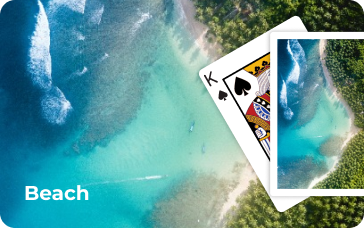
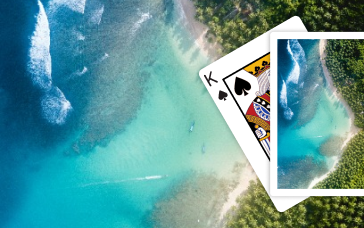
image cheng

diff --git a/customization(background).html b/customization(background).html
@@ -41,32 +41,41 @@
                 <button><a href="#">Card Back</a></button>
             </div>
             <div class="card-img">
-                <div>
-                    <img src="img/classic-cloth.png" alt="">
+                <div class="card-box">
+                    <img src="img/Classic-Cloth.png" alt="">
+                    <p class="card-name">Classic Cloth</p>
                 </div>
-                <div>
+                <div class="card-box">
                     <img src="img/medieval.png" alt="">
+                    <p class="card-name">Classic Cloth</p>
                 </div>
-                <div>
-                    <img src="img/paradise.png" alt="">
+                <div class="card-box">
+                    <img src="img/Paradise.png" alt="">
+                    <p class="card-name">Classic Cloth</p>
                 </div>
-                <div>
-                    <img src="img/pirates.png" alt="">
+                <div class="card-box">
+                    <img src="img/Pirates.png" alt="">
+                    <p class="card-name">Classic Cloth</p>
                 </div>
-                <div>
-                    <img src="img/beach.png" alt="">
+                <div class="card-box">
+                    <img src="img/Beach.png" alt="">
+                    <p class="card-name">Classic Cloth</p>
                 </div>
-                <div>
-                    <img src="img/bloom.png" alt="">
+                <div class="card-box">
+                    <img src="img/Bloom.png" alt="">
+                    <p class="card-name">Classic Cloth</p>
                 </div>
-                <div>
-                    <img src="img/medieval.png" alt="">
+                <div class="card-box">
+                    <img src="img/Forest.png" alt="">
+                    <p class="card-name">Classic Cloth</p>
                 </div>
-                <div>
-                    <img src="img/paradise.png" alt="">
+                <div class="card-box">
+                    <img src="img/Meadow.png" alt="">
+                    <p class="card-name">Classic Cloth</p>
                 </div>
-                <div>
-                    <img src="img/pirates.png" alt="">
+                <div class="card-box">
+                    <img src="img/Aquarium.png" alt="">
+                    <p class="card-name">Classic Cloth</p>
                 </div>
             </div>
         </div>

diff --git a/style.css b/style.css
@@ -178,6 +178,8 @@ body::before{
 .card-img img{
     height: 100%;
     width: 100%;
+    border-radius: 15px;
+    object-fit: cover;
 }
 .card-img{
     display: grid;
@@ -191,6 +193,19 @@ body::before{
     margin-right: auto;
     height: 520px;
     overflow-y: scroll;
+}
+.card-img::-webkit-scrollbar {
+    display: none;
+}
+.card-box{
+    position: relative;
+}
+.card-name{
+    position: absolute;
+    bottom: 24px;
+    left: 24px;
+    font-size: 20px;
+    font-weight: 700;
 }
 
 
